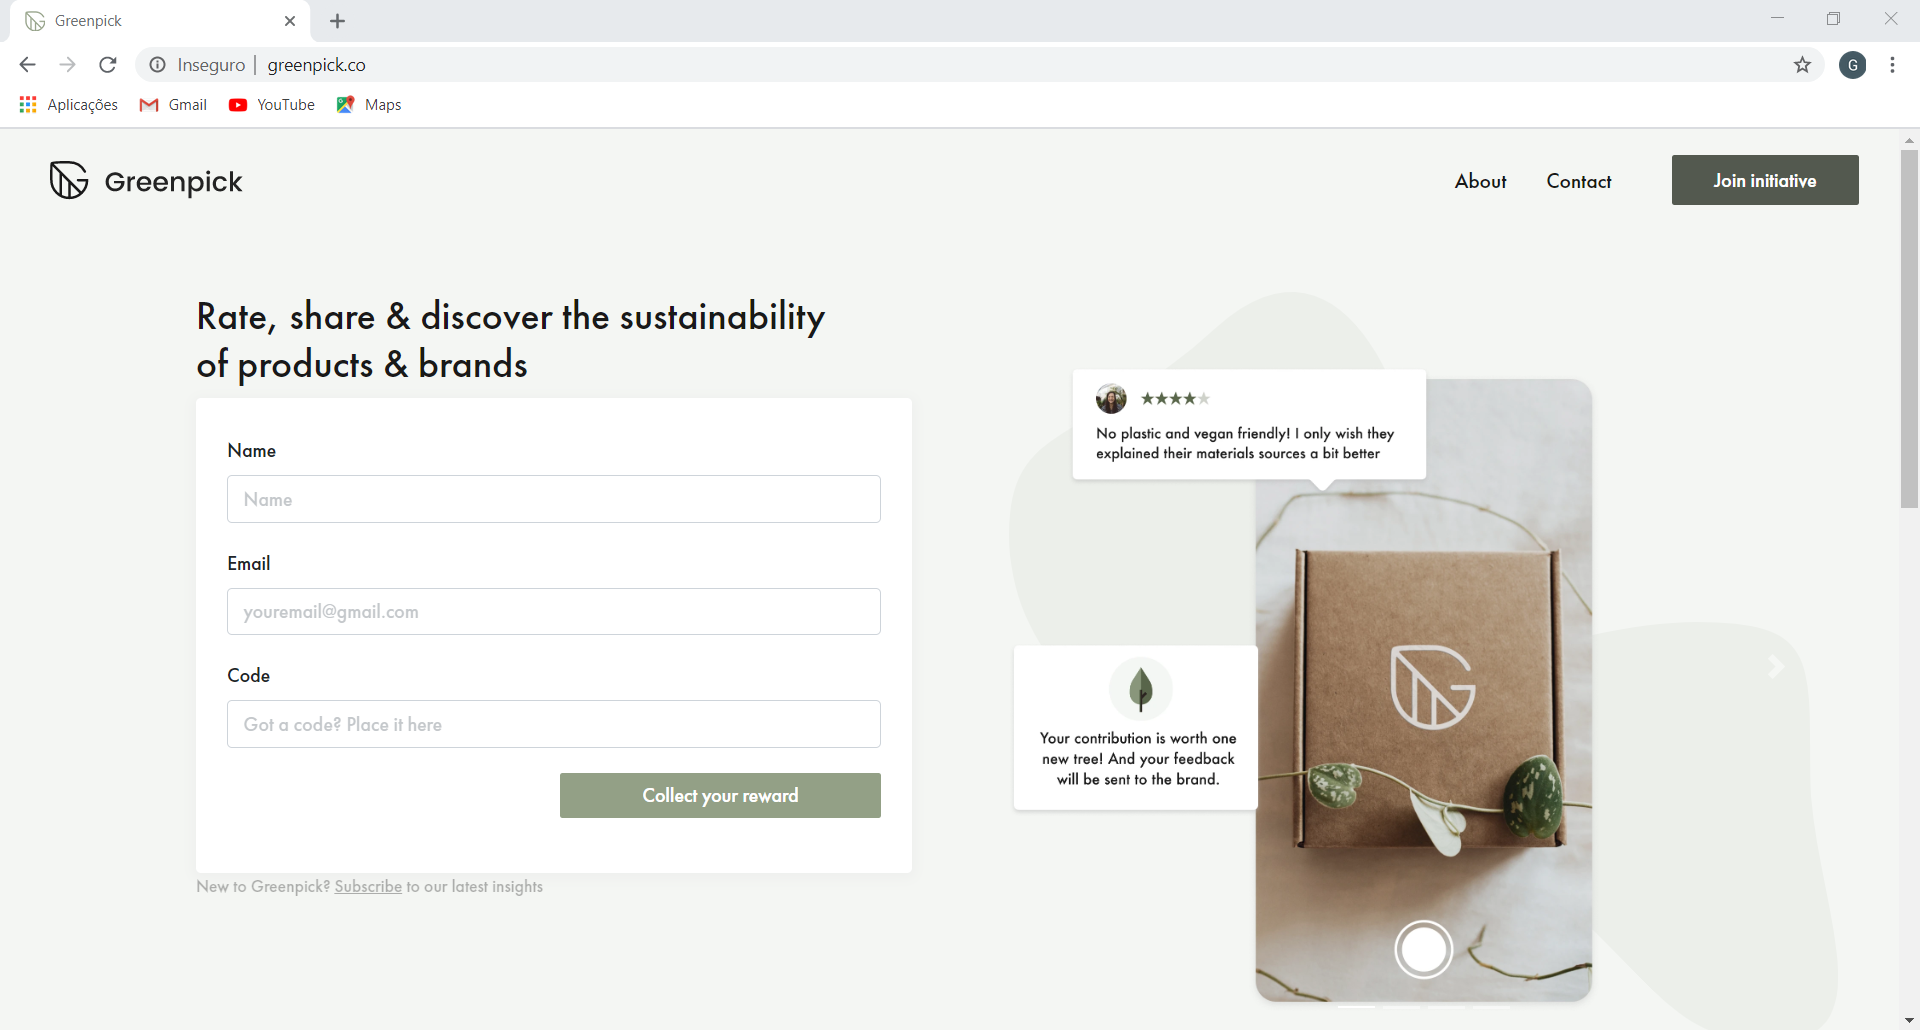
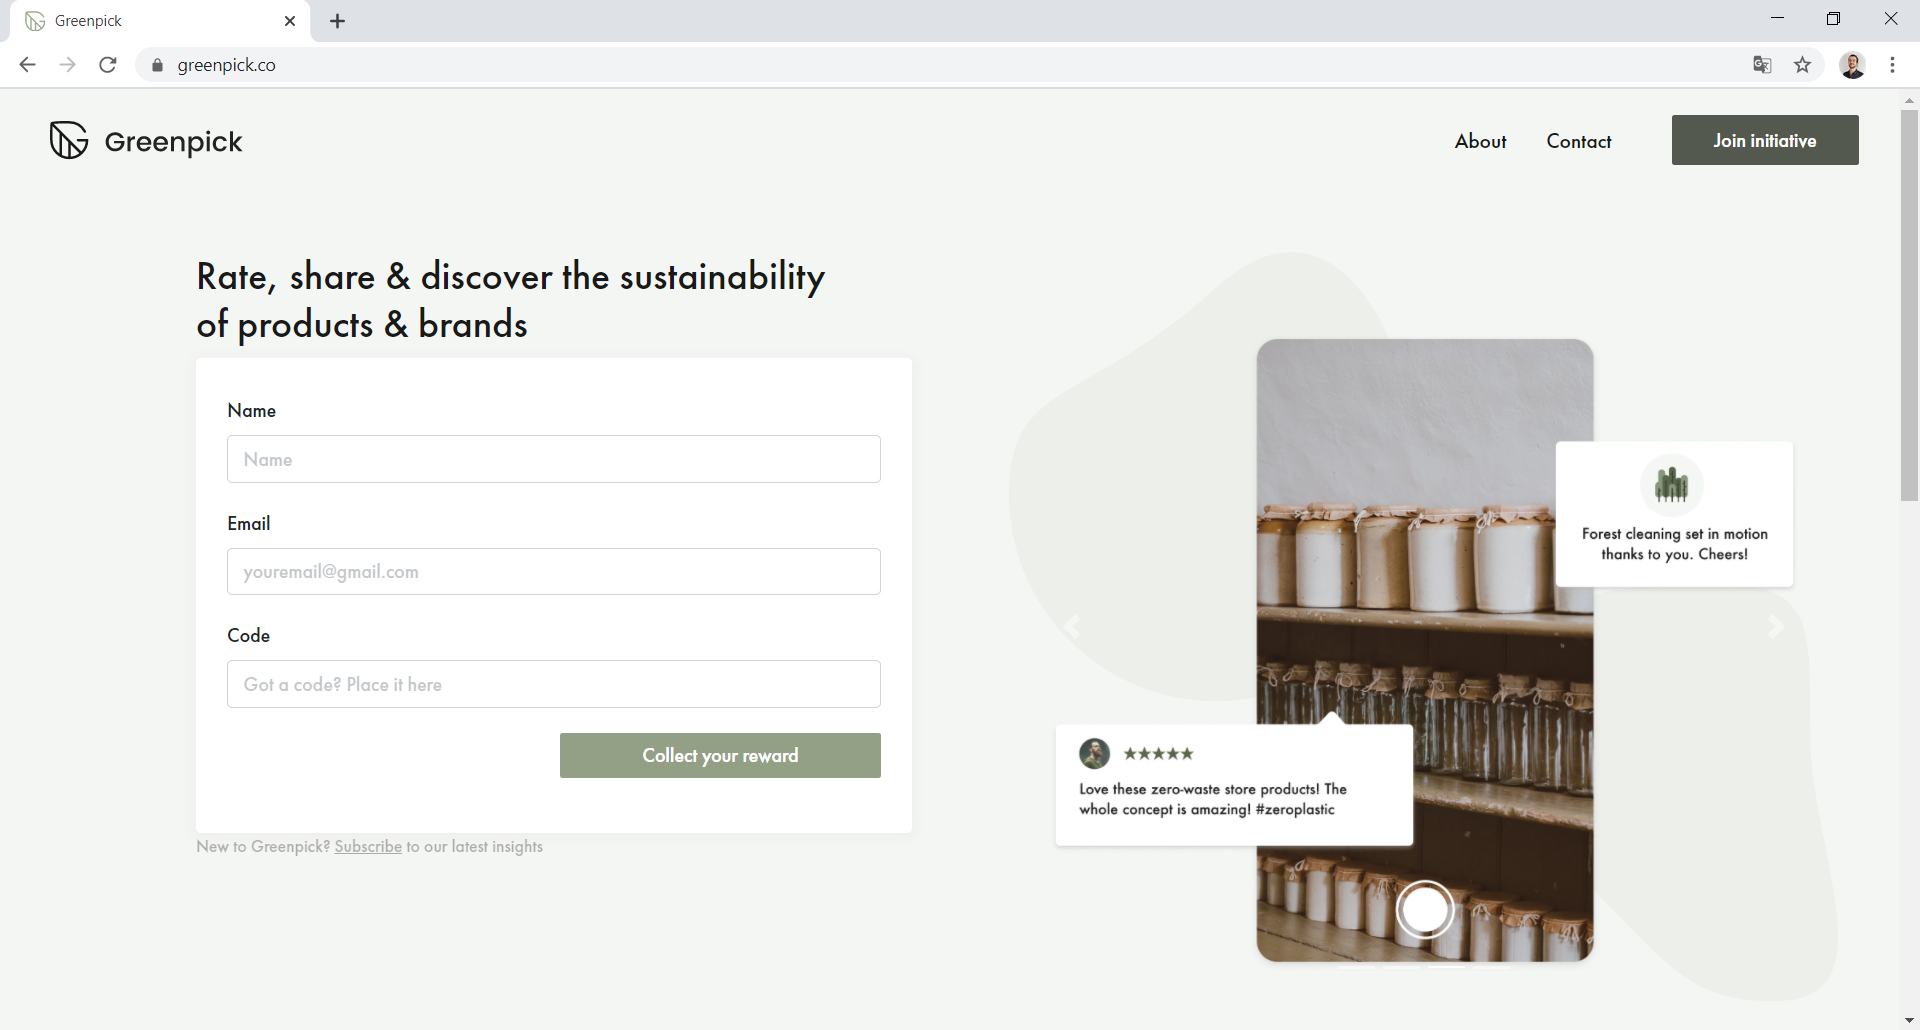
Updates gp screenshot and adds link to gp in its project card

diff --git a/public/projects.html b/public/projects.html
@@ -3,7 +3,7 @@
   <head>
     <meta charset="UTF-8" />
     <meta name="viewport" content="width=device-width, initial-scale=1.0" />
-    <title>CV</title>
+    <title>Projects</title>
     <link rel="stylesheet" href="/css/main.css" />
     <link rel="stylesheet" href="/css/projects.css" />
     <script src="/js/main.js"></script>
@@ -79,10 +79,12 @@
 
         <div class="card">
           <div class="card__preview">
-            <img
-              src="\images\GreenpickSreenShot.PNG"
-              class="card__preview__content"
-            />
+            <a href="https://greenpick.co">
+              <img
+                src="\images\GreenpickSreenShot.PNG"
+                class="card__preview__content"
+              />
+            </a>
           </div>
           <h2 class="card__title">Greenpick</h2>
           <p class="card__text">
